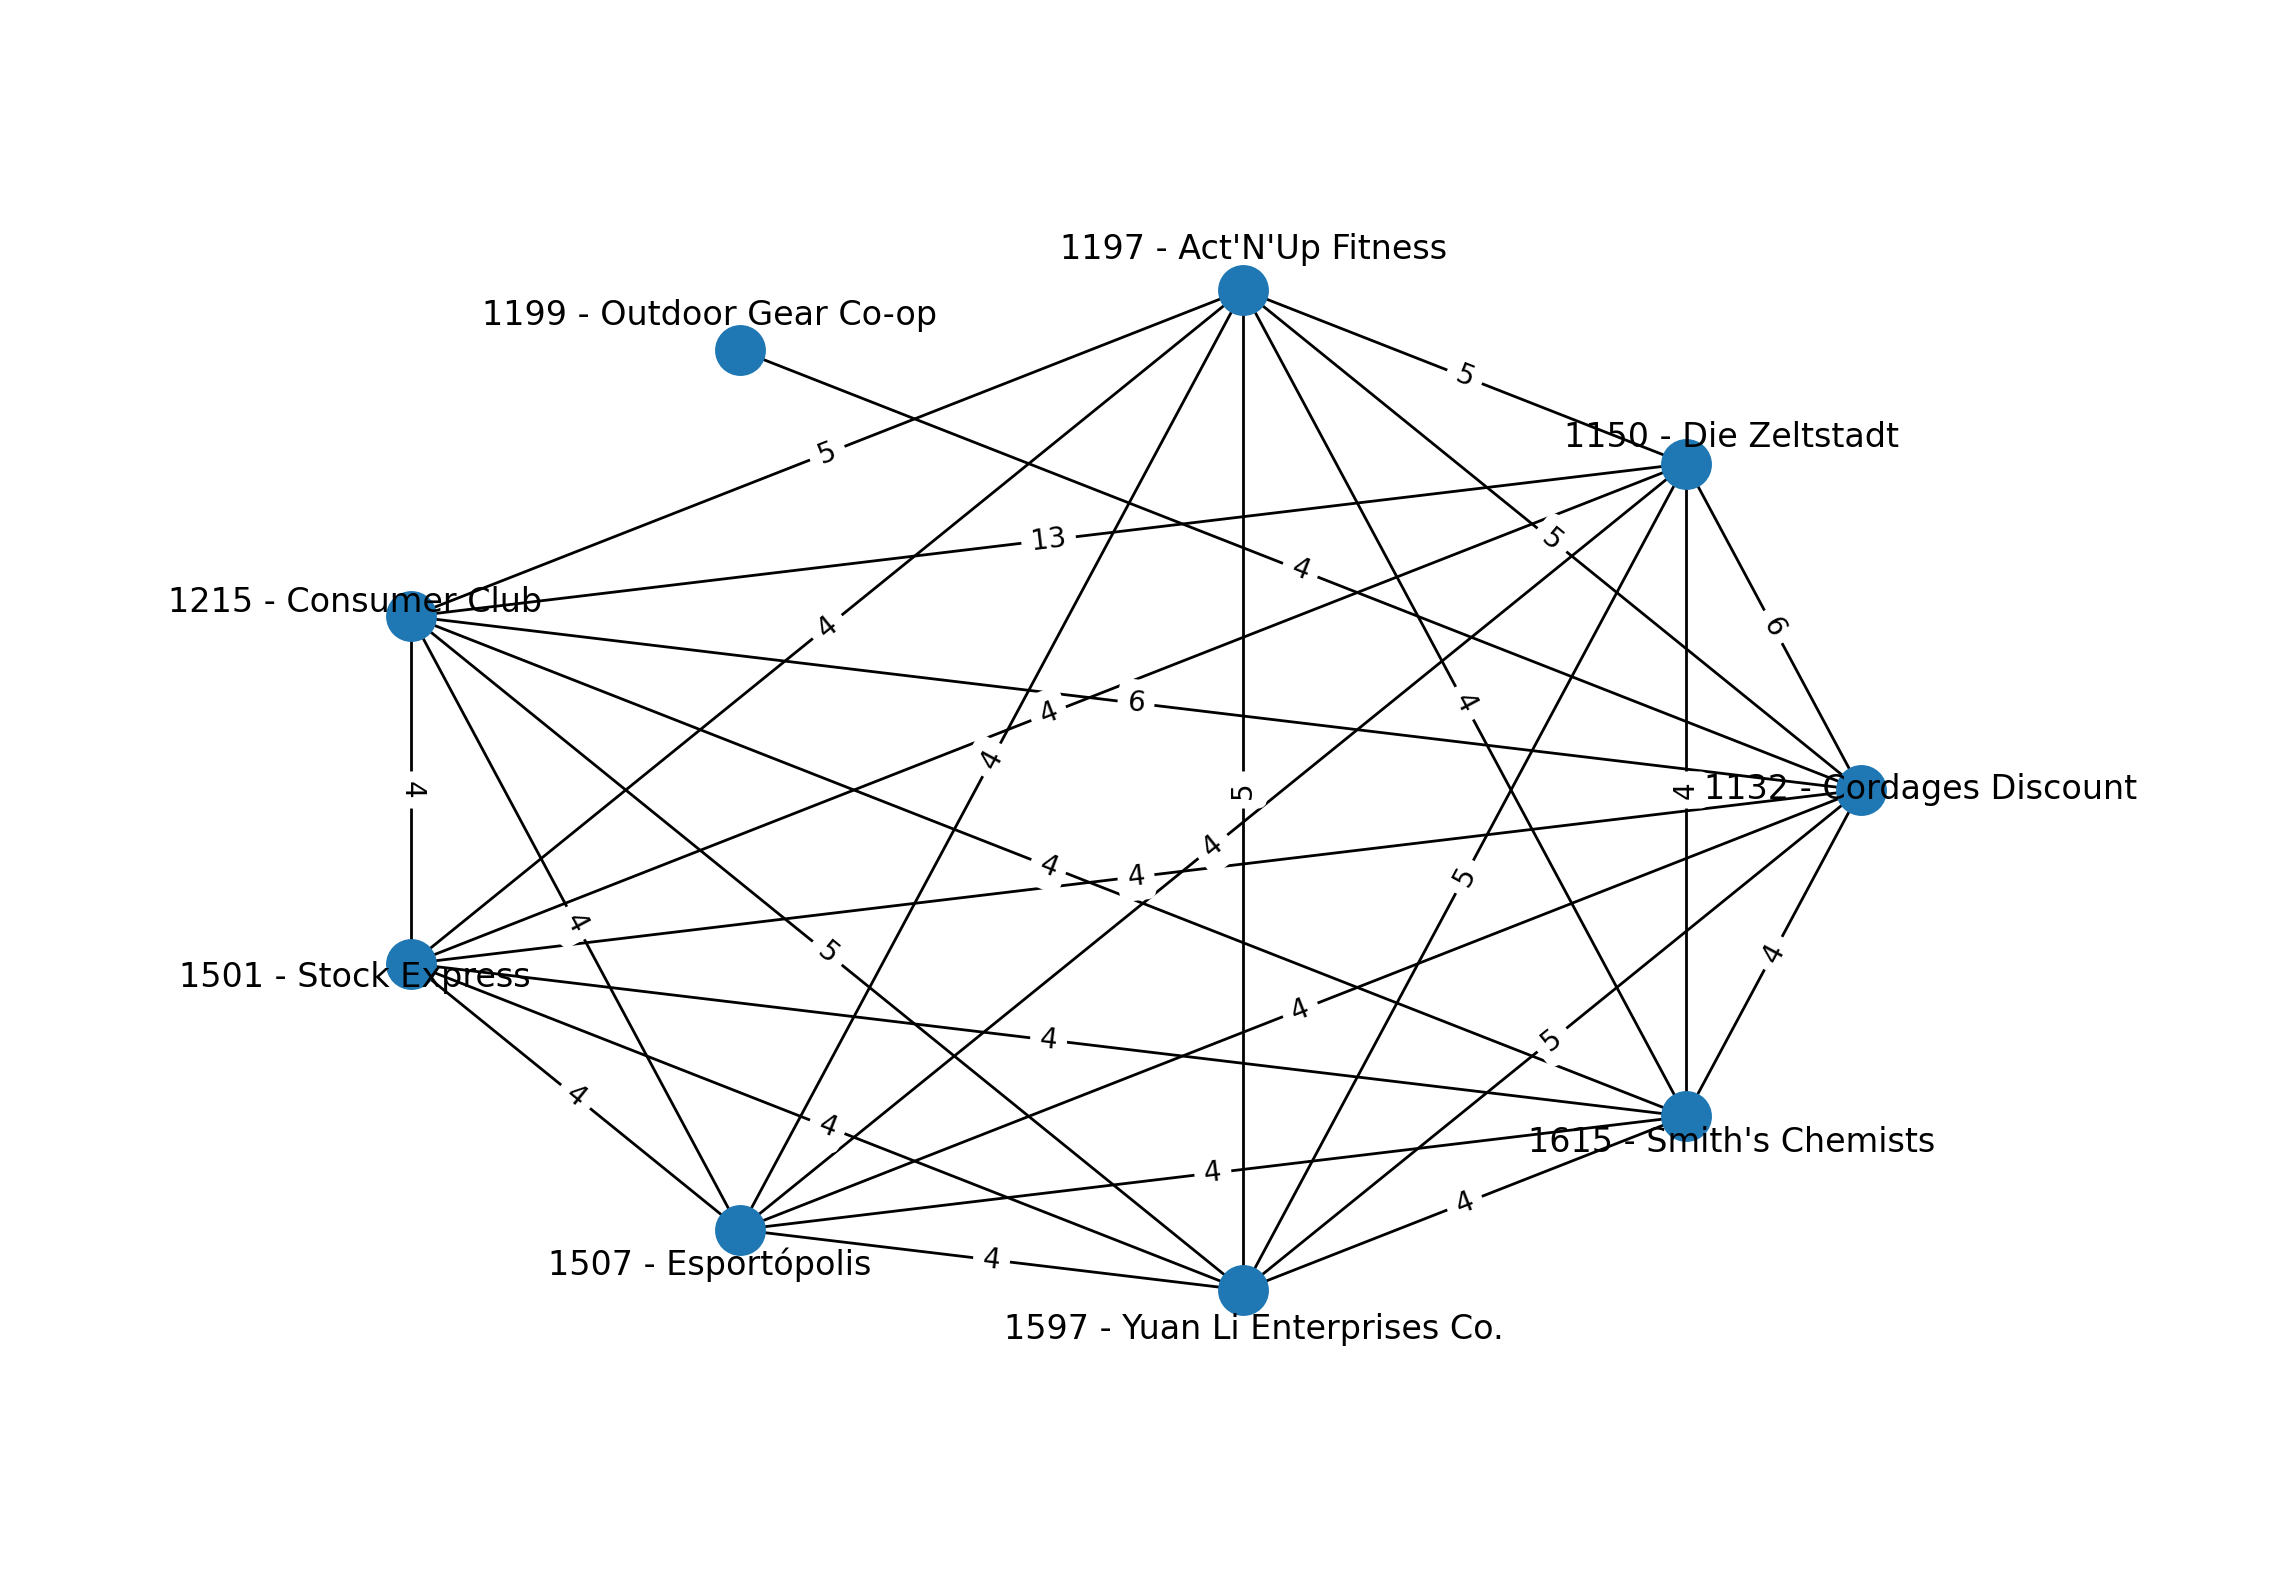
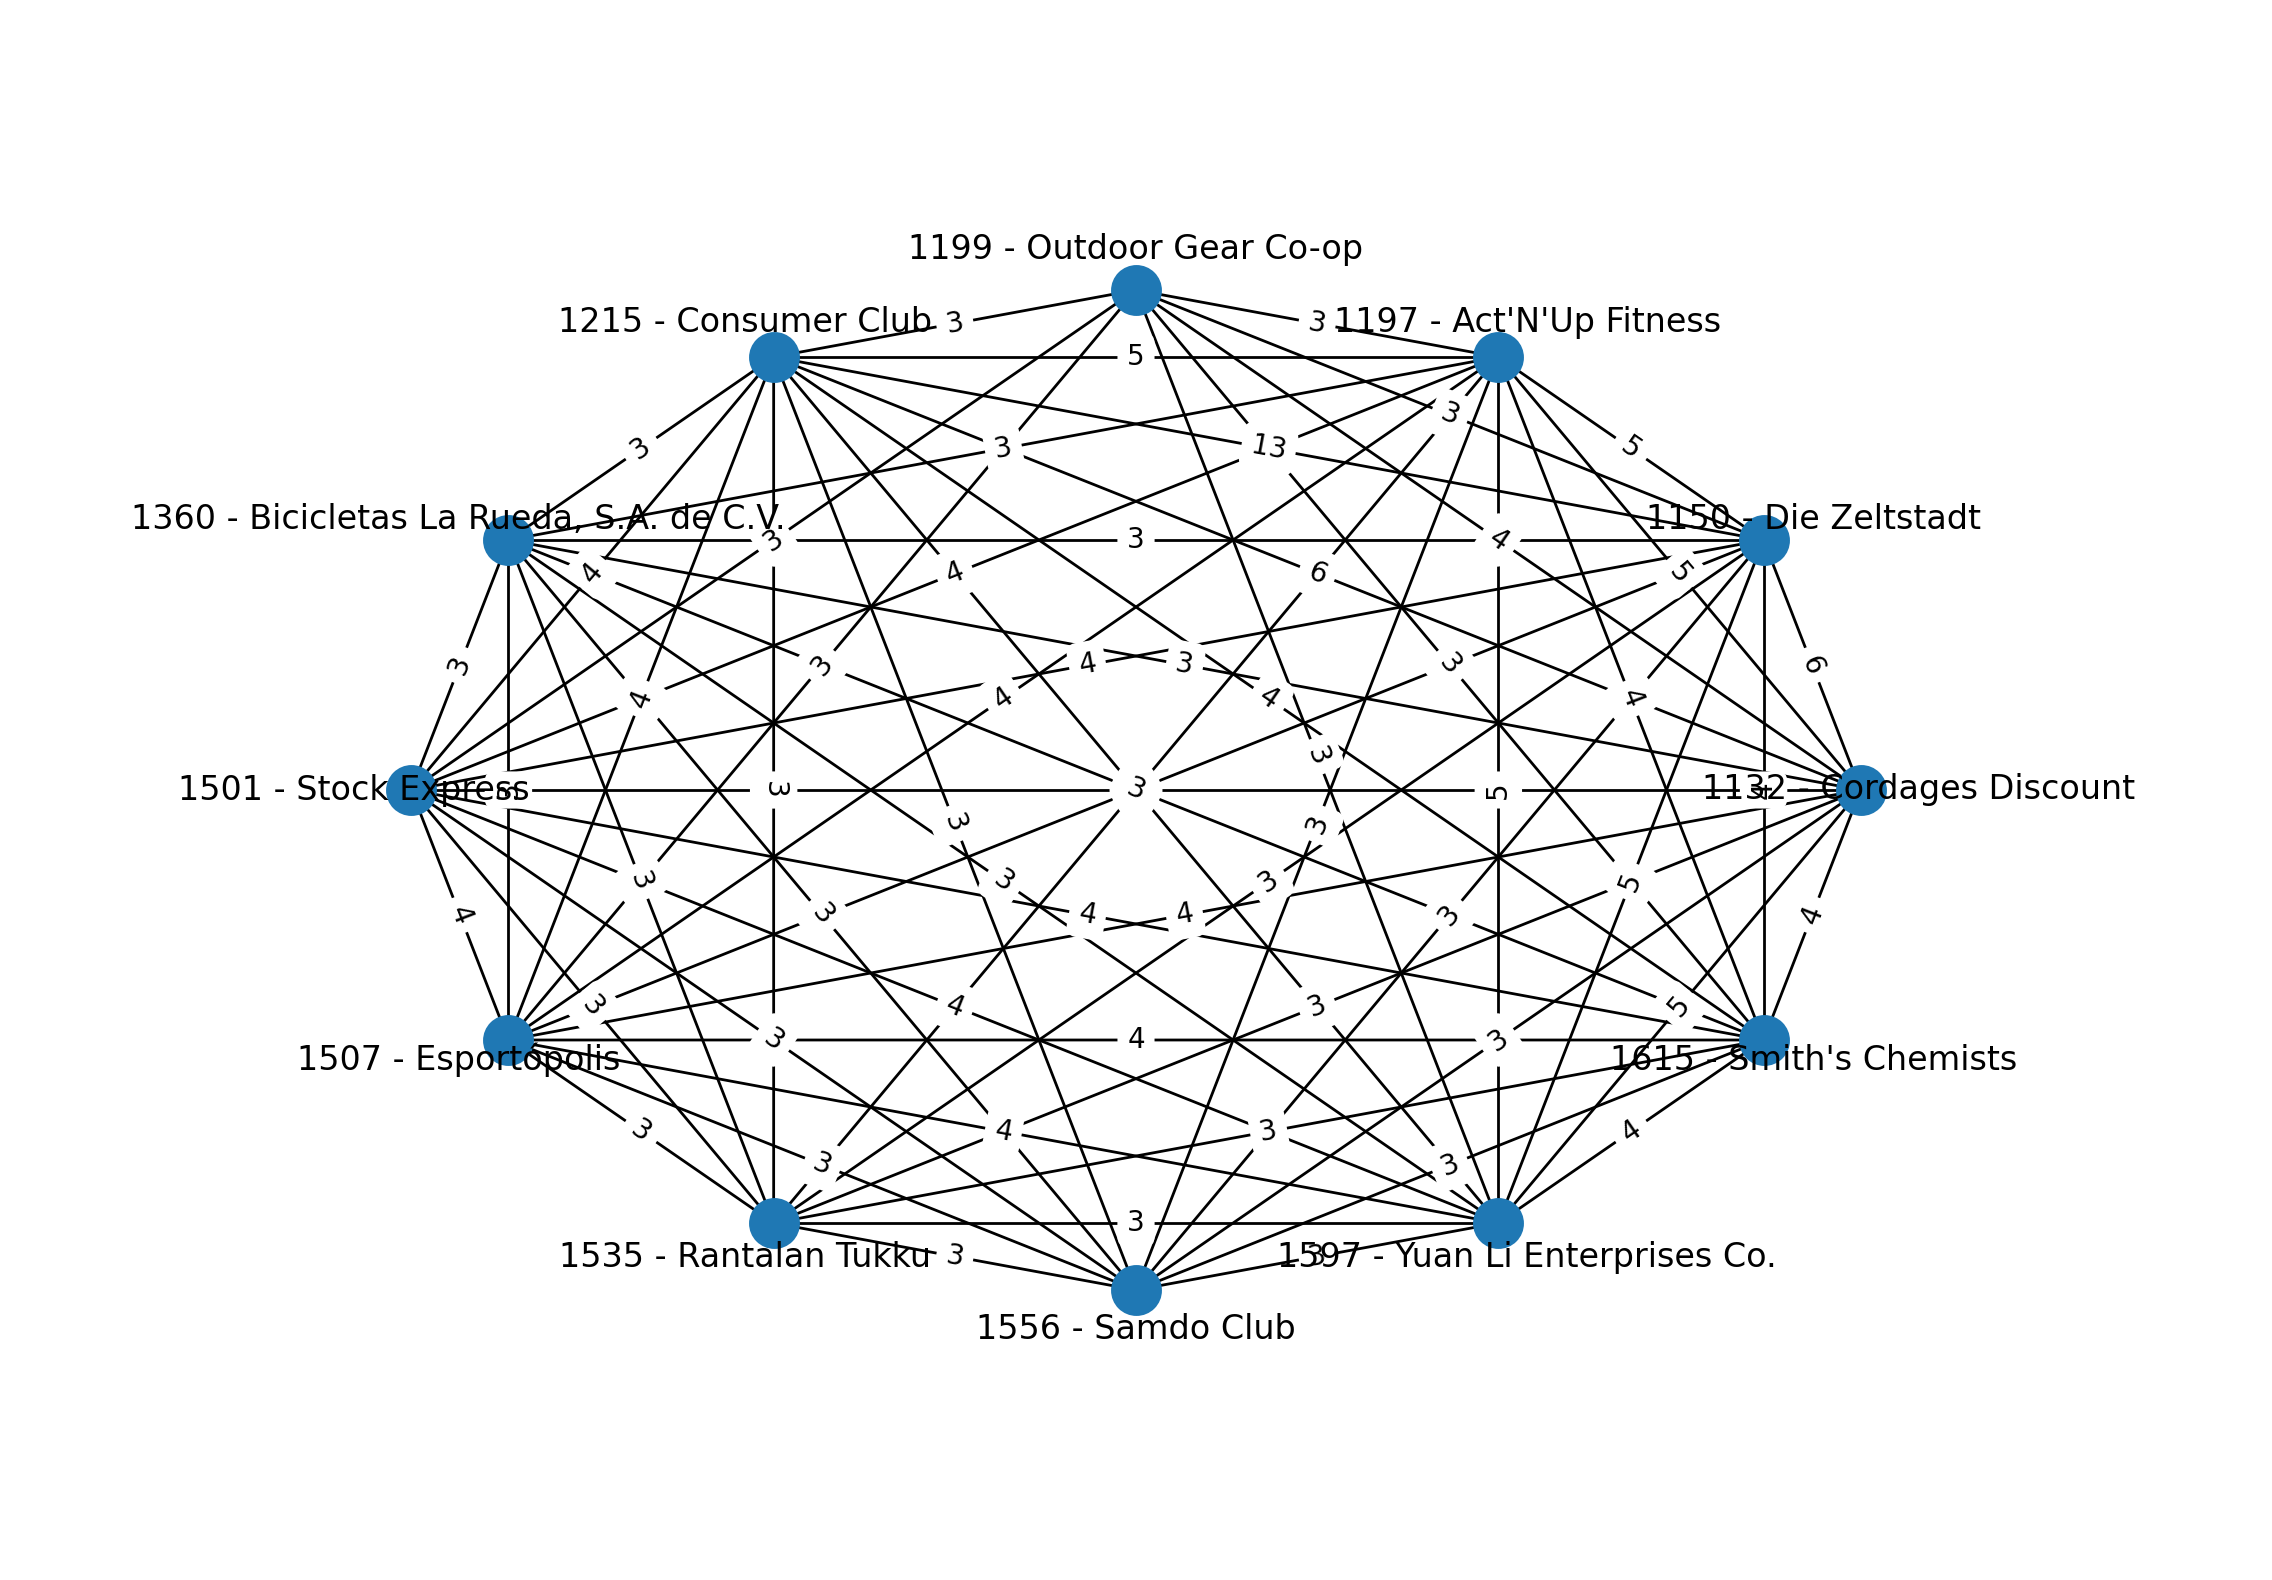
inserimento della libreria matplotlib nel file Requirements.txt

Changed region(s): [[0.0625, 0.1241, 0.9375, 0.8684]]

diff --git a/UI/controller.py b/UI/controller.py
@@ -158,11 +158,7 @@ class Controller:
             self._view.update_page()
             return
 
-        if maxLength is None:
-            self._view.txt_result_temp.controls.clear()
-            self._view.txt_result_temp.controls.append(ft.Text(f"Attenzione, selezionare una lunghezza massima del cammino", color="red"))
-            self._view.update_page()
-            return
+
         #recupera il nodo di partenza dalla mappa tramite il codice retailer selezionato
         nodo_partenza = self._model._idMap[int(retailer_id)]
         worstPath,worstWeight = self._model.getCamminoDebole(nodo_partenza, int(maxLength))
